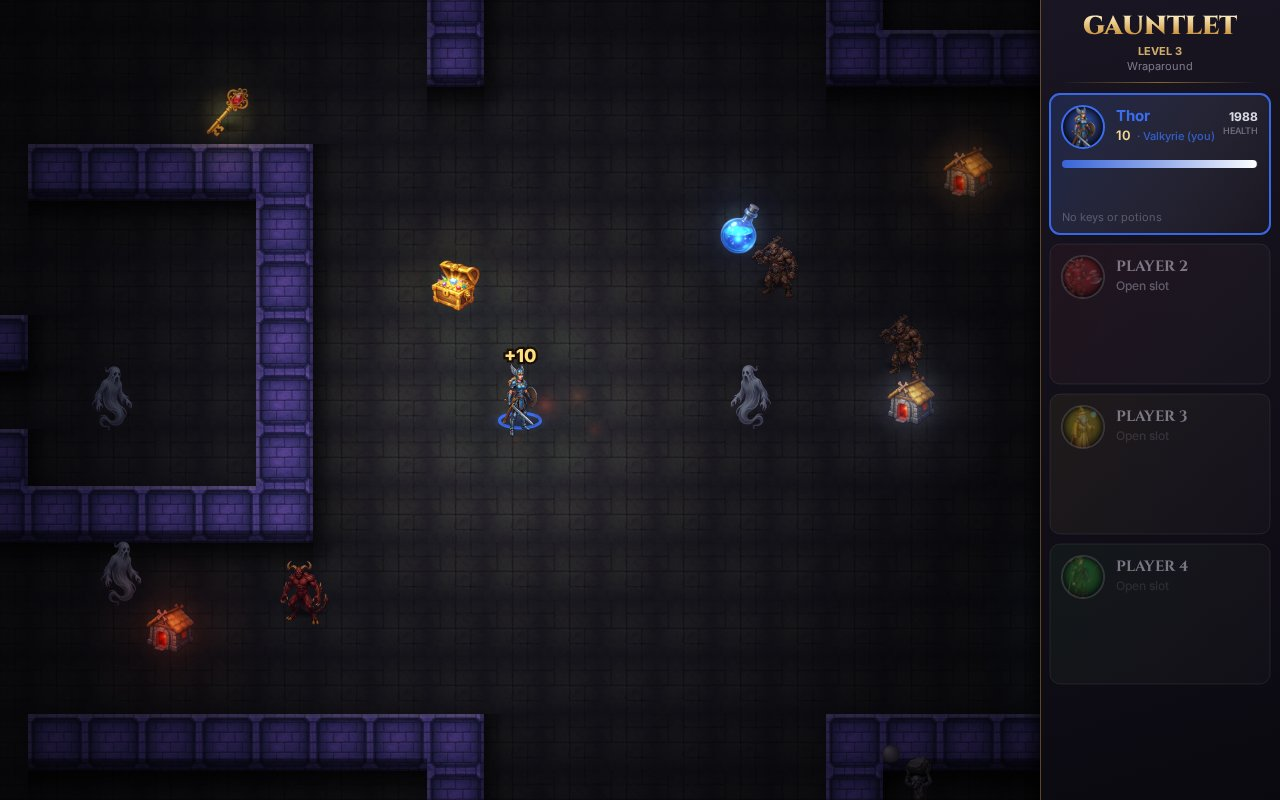
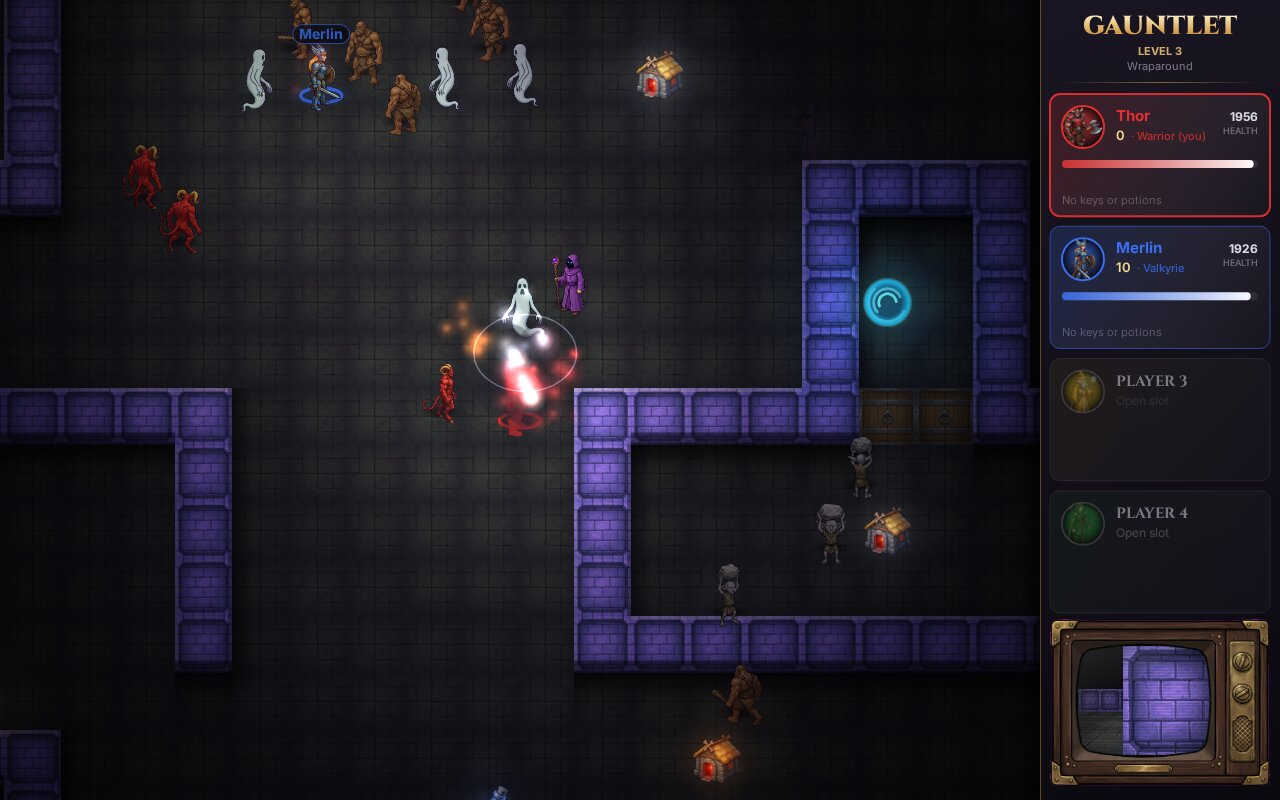
README: 3D view, new controls and fresh screenshots

diff --git a/README.md b/README.md
@@ -6,17 +6,24 @@ A web remake of Atari's 1985 coin-op **Gauntlet**. Up to four players work toget
 
 ![Gauntlet gameplay](docs/screenshot.jpg)
 
+![The first-person 3D view](docs/screenshot-3d.jpg)
+
 ## Features
 
 - Online co-op for up to 4 heroes (Warrior, Valkyrie, Wizard, Elf), with a lobby and waiting rooms. Players can join a game in progress at the start of a level.
 - Monster generators, keys and doors, food, treasure and potions, and levels that wrap around the edges.
 - Gauntlet II additions: stun tiles, traps, breakable walls, transporters and force fields; dragons, thieves, acid puddles and super sorcerers; amulets (invisibility, invulnerability, repulsiveness, reflective shots, super shots, transportability), poison and the It ball.
+- A first-person 3D view: press **V** to explore the dungeon Wolfenstein-style, with a minimap on the TV in the side panel. In the top-down view the TV shows a small first-person view from your hero.
+- Heroes and monsters walk and turn in eight directions, as in the arcade.
 - Built-in levels, plus optional imports of the original Gauntlet and Gauntlet II arcade maps.
 - A level editor in the browser: draw your own levels, test them right away and play them with friends.
+- Pick the level set and the level to start at in the lobby.
 
 ## Controls
 
-Arrow keys to move, **Z** to fire, **X** to use a potion, **Esc** for the menu. Gamepads also work.
+Arrow keys to move, **Z** to fire, **X** to use a potion, **V** to switch between the top-down and 3D views, **Esc** for the menu. Gamepads also work.
+
+In the 3D view the arrow keys are relative to where your hero faces: left and right turn 45 degrees, up walks forward and down turns round.
 
 ## Running it yourself
 
